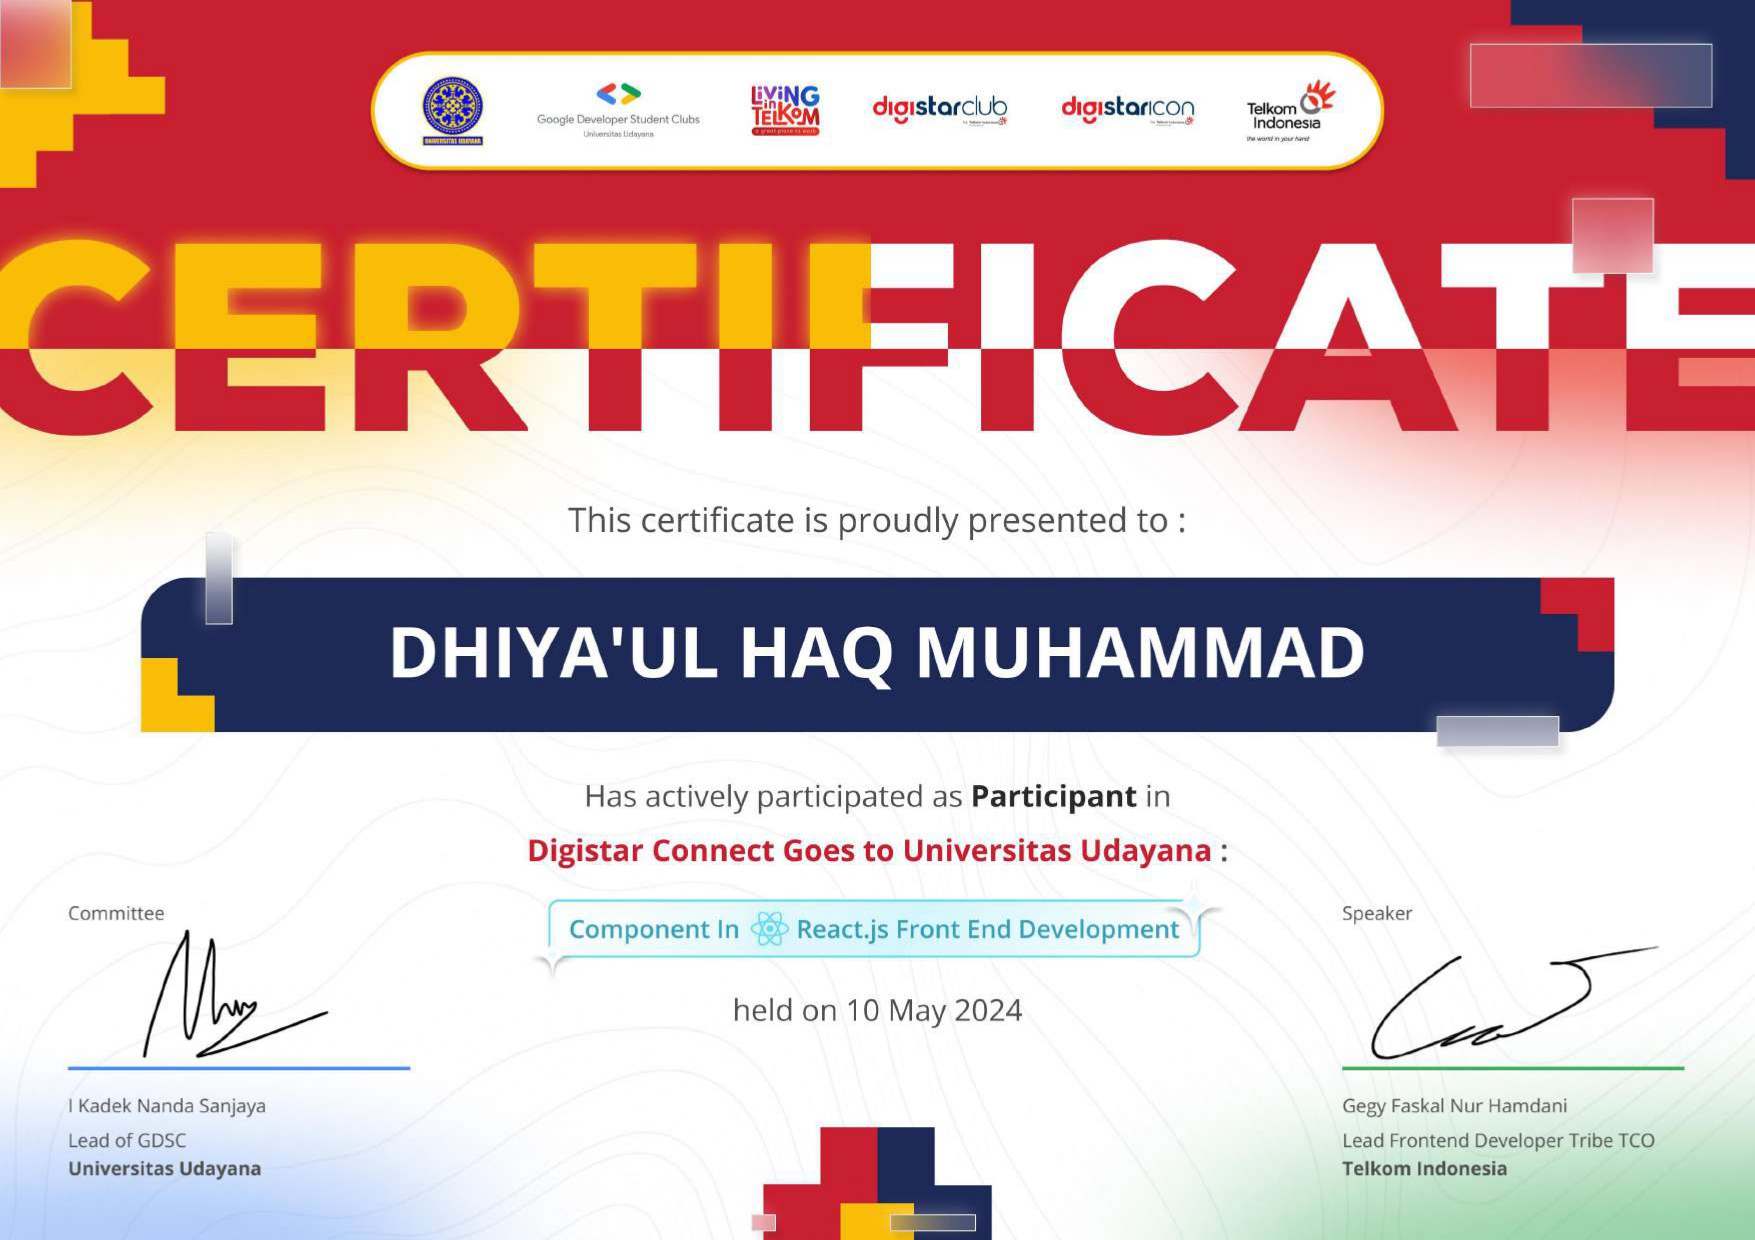
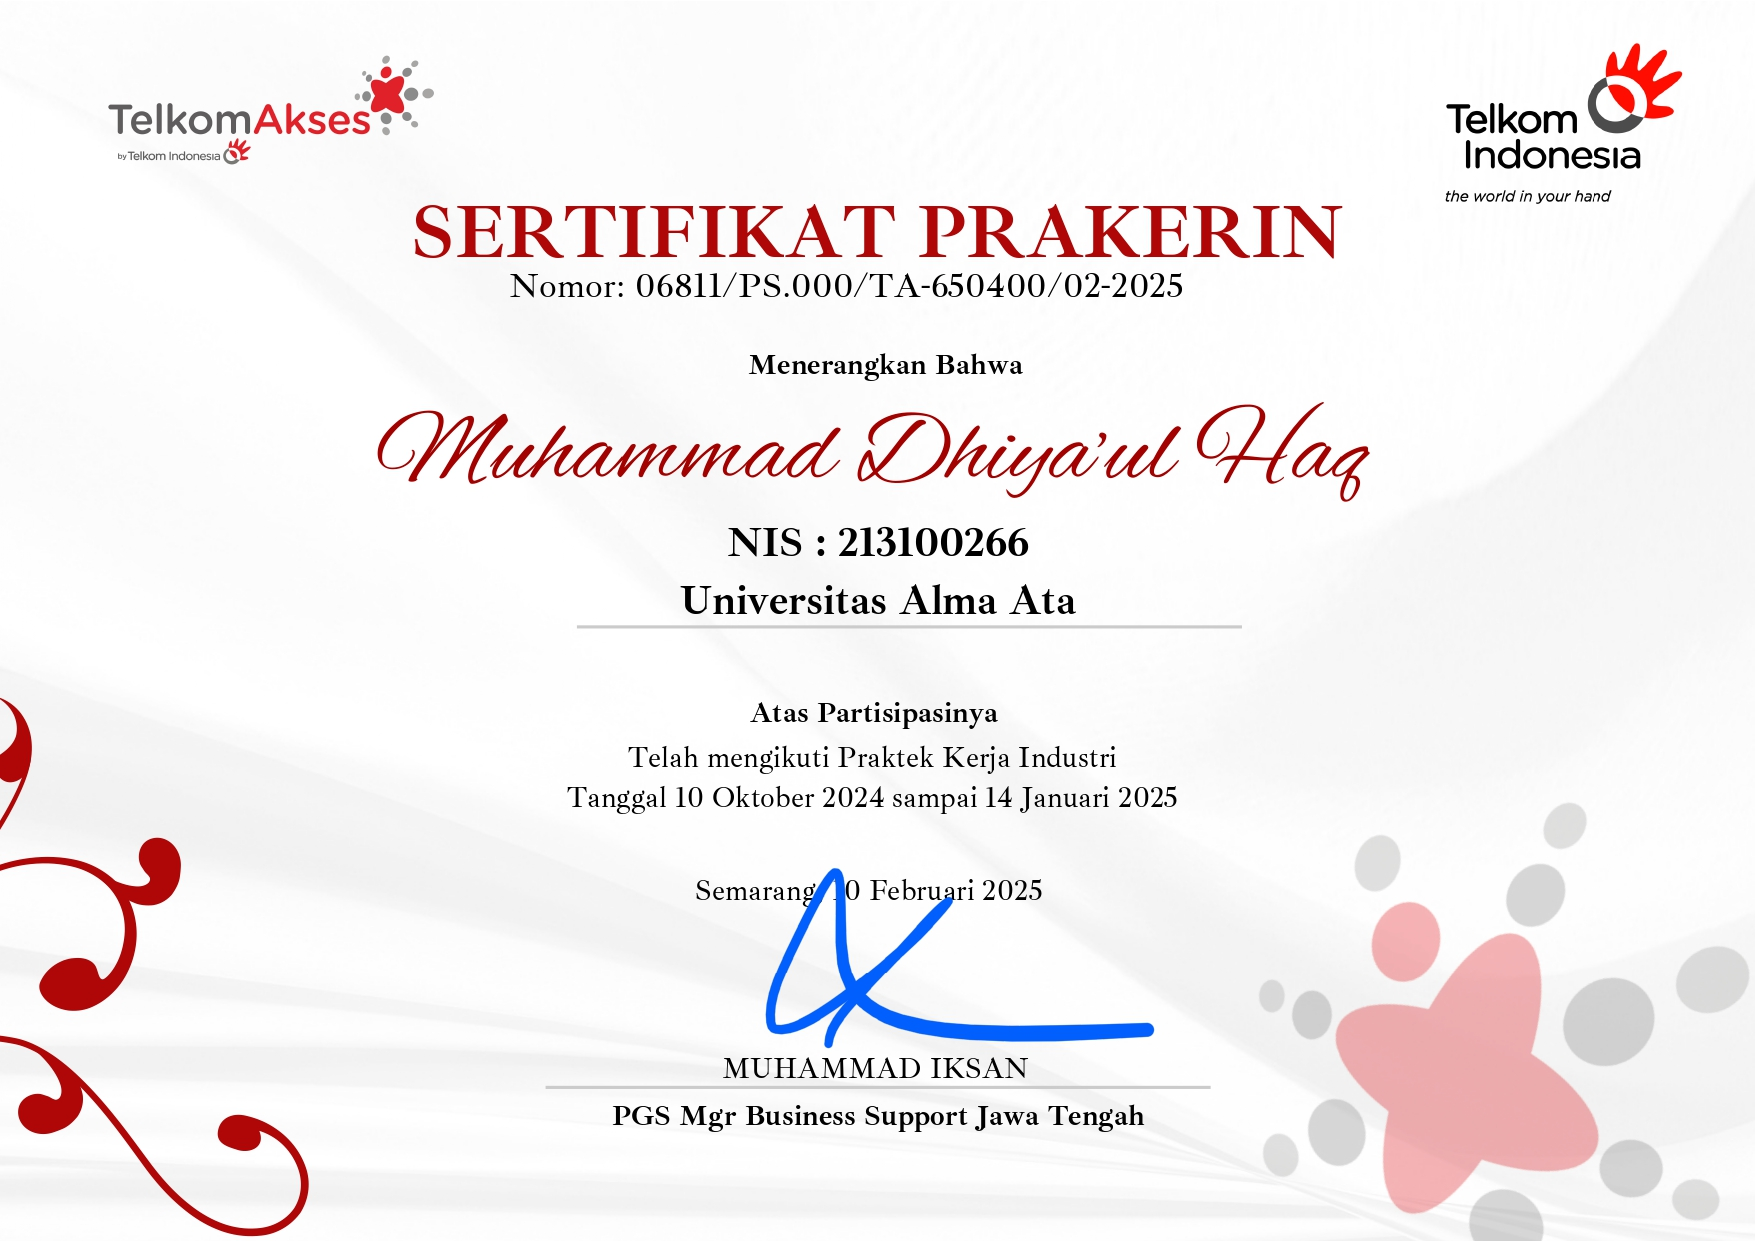
update sertif

diff --git a/index.html b/index.html
@@ -210,7 +210,7 @@
                 </a>
               </li>
 
-              <!-- <li>
+              <li>
                 <a href="#" class="stats-card">
                
                   <div class="">
@@ -221,10 +221,26 @@
                     />
                   </div>
                   <h2 class="h2 card-title">
-                    Digistar <strong>Telkom</strong>
+                    Telkom <strong>Akses</strong>
                   </h2>
                 </a>
-              </li> -->
+              </li>
+
+              <li>
+                <a href="#" class="stats-card">
+               
+                  <div class="">
+                    <img
+                      src="./assets/images/sertif4.jpg"
+                      class="small-image"
+                      alt="Peoples rating icon"
+                    />
+                  </div>
+                  <h2 class="h2 card-title">
+                    Metrodata <strong>Training</strong>
+                  </h2>
+                </a>
+              </li>
              
         </section>
 
@@ -324,9 +340,10 @@
             </p>
 
             <div class="btn-group">
-              <button class="btn btn-secondary">Hire me</button>
+              
+             <a href="#contact"><button class="btn btn-secondary">Hire me</button> </a>
 
-              <a href="https://dhiyaulhaqm.github.io/" target="blank">
+              <a href="https://s.id/CVPortofolio_Dhiya" target="blank">
                 <button class="btn btn-primary">Download cv</button></a
               >
             </div>
@@ -393,7 +410,7 @@
                 </div>
               </li>
 
-              <li>
+              <!-- <li>
                 <div class="skill-card">
                   <div class="tooltip">PHP</div>
 
@@ -406,7 +423,7 @@
                     />
                   </div>
                 </div>
-              </li>
+              </li> -->
 
               <!-- 
 
@@ -420,7 +437,7 @@
               </div>
             </li> -->
 
-              <li>
+              <!-- <li>
                 <div class="skill-card">
                   <div class="tooltip">Bootstrap</div>
 
@@ -431,7 +448,7 @@
                     />
                   </div>
                 </div>
-              </li>
+              </li> -->
               <!-- 
             <li>
               <div class="skill-card">
@@ -535,7 +552,7 @@
                 </div>
               </li>
 
-              <li>
+              <!-- <li>
                 <div class="skill-card">
                   <div class="tooltip">MySQL</div>
 
@@ -548,7 +565,7 @@
                     />
                   </div>
                 </div>
-              </li>
+              </li> -->
 
               <li>
                 <div class="skill-card">
@@ -673,6 +690,9 @@
               </div>
             </li>
 
+            
+            
+
             <li>
               <a href="#" class="project-card">
                 <figure class="card-banner">
@@ -731,9 +751,9 @@
                   >
                 </div>
               </a>
-            </li>
+            </li> -->
 
-            <li>
+            <!-- <li>
               <a href="#" class="project-card">
                 <figure class="card-banner">
                   <img
@@ -811,13 +831,13 @@
                   >
                 </div>
               </a>
-            </li>
+            </li> -->
 
-            <li>
+            <!-- <li>
               <button class="load-more">Load more work</button>
-            </li>
+            </li> -->
           </ul>
-        </section> -->
+        </section>
 
         <!-- 
         - #CONTACT
@@ -846,7 +866,7 @@
                   <h3 class="h4 contact-item-title">Address:</h3>
 
                   <address class="contact-info">
-                   <!-- isi -->Jl. Wates KM 2 Ngestiharjo Kadipiro Kasihan Bantul D.I.Yogyakarta
+                   <!-- isi -->Kasihan Bantul D.I.Yogyakarta
                   </address>
                 </div>
               </li>
@@ -878,8 +898,8 @@
                 <div class="wrapper">
                   <h3 class="h4 contact-item-title">Email:</h3>
 
-                  <a href="dhiya.ys27@gmail.com" class="contact-info"
-                    >dhiya.ys27@gmail.com</a
+                  <a href="213100266@almaata.ac.id" class="contact-info"
+                    >213100266@almaata.ac.id</a
                   >
 
                 </div>
@@ -958,7 +978,7 @@
         </p>
 
         <p class="copyright">
-          &copy; 2024 <a href="#">dhiyaulhaq.m</a>. All rights reserved
+          &copy; 2026 <a href="#">dhiyaulhaq.m</a>. All rights reserved
         </p>
       </div>
     </footer>
